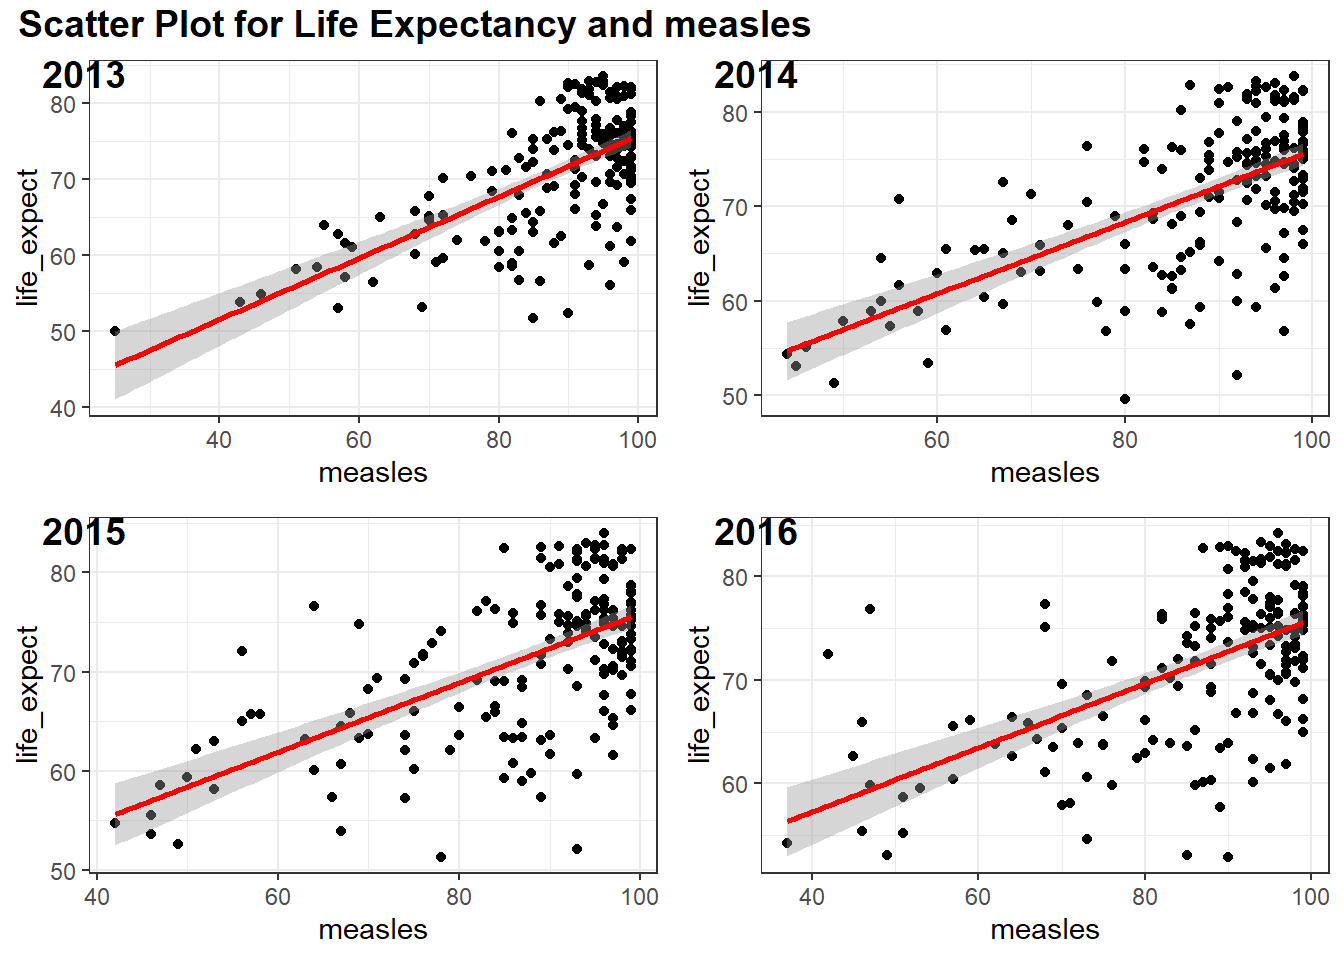
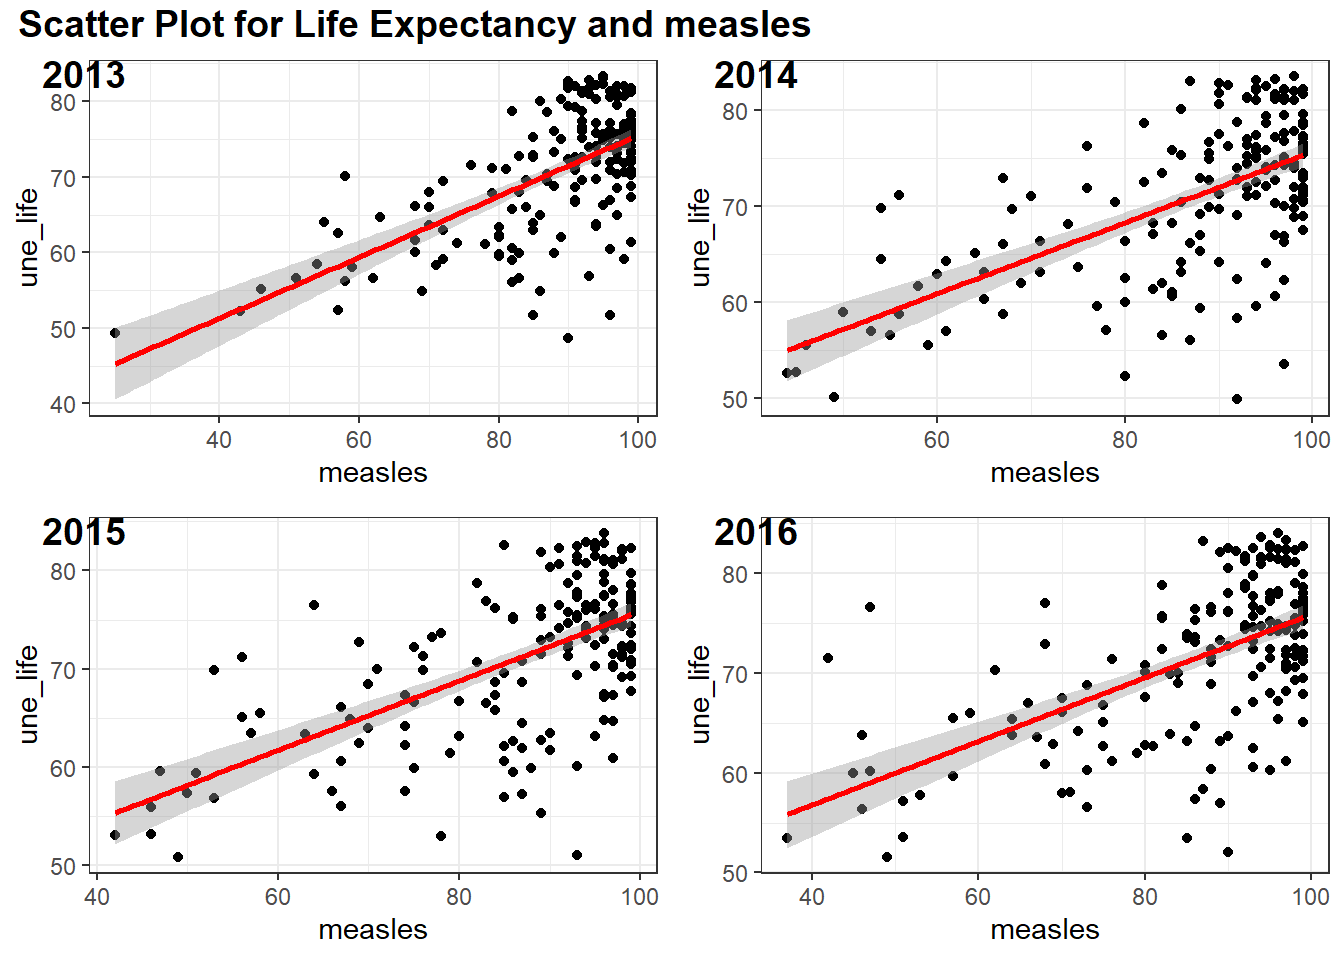
Revuse EDA response

diff --git a/EDA.html b/EDA.html
@@ -476,7 +476,7 @@ see the correlation between variables.</p>
 <pre class="r"><code>#bmi
 merged_data_temp =
 merged_data %&gt;% 
-  select(year, life_expect, bmi) %&gt;% 
+  select(year, une_life, bmi) %&gt;% 
   filter(year &gt; 2012)
 
 
@@ -486,7 +486,7 @@ for (i in 2013:2016){
     myplots[[i-2012]] =
       merged_data_temp %&gt;% 
       filter(year == i) %&gt;% 
-      ggplot(aes(x = bmi, y = life_expect))+geom_point()+geom_smooth(method = &#39;lm&#39;, se = TRUE, color = &#39;red&#39;)
+      ggplot(aes(x = bmi, y = une_life))+geom_point()+geom_smooth(method = &#39;lm&#39;, se = TRUE, color = &#39;red&#39;)
   
   }
   
@@ -512,7 +512,7 @@ plot_grid(title,plot_row1,plot_row2 ,ncol=1,  label_size = 12,rel_heights=c(0.1,
 <pre class="r"><code>#measles
 merged_data_temp =
 merged_data %&gt;% 
-  select(year, life_expect, measles) %&gt;% 
+  select(year, une_life, measles) %&gt;% 
   filter(year &gt; 2012)
 
 
@@ -522,7 +522,7 @@ for (i in 2013:2016){
     myplots[[i-2012]] =
       merged_data_temp %&gt;% 
       filter(year == i) %&gt;% 
-      ggplot(aes(x = measles, y = life_expect))+geom_point()+geom_smooth(method = &#39;lm&#39;, se = TRUE, color = &#39;red&#39;)
+      ggplot(aes(x = measles, y = une_life))+geom_point()+geom_smooth(method = &#39;lm&#39;, se = TRUE, color = &#39;red&#39;)
   
   }
   
@@ -548,7 +548,7 @@ plot_grid(title,plot_row1,plot_row2 ,ncol=1,  label_size = 12,rel_heights=c(0.1,
 <pre class="r"><code>#health_exp
 merged_data_temp =
 merged_data %&gt;% 
-  select(year, life_expect, health_exp) %&gt;% 
+  select(year, une_life, health_exp) %&gt;% 
   filter(year &gt; 2012)
 
 
@@ -558,7 +558,7 @@ for (i in 2013:2016){
     myplots[[i-2012]] =
       merged_data_temp %&gt;% 
       filter(year == i) %&gt;% 
-      ggplot(aes(x = health_exp, y = life_expect))+geom_point()+geom_smooth(method = &#39;lm&#39;, se = TRUE, color = &#39;red&#39;)
+      ggplot(aes(x = health_exp, y = une_life))+geom_point()+geom_smooth(method = &#39;lm&#39;, se = TRUE, color = &#39;red&#39;)
   
   }
   
